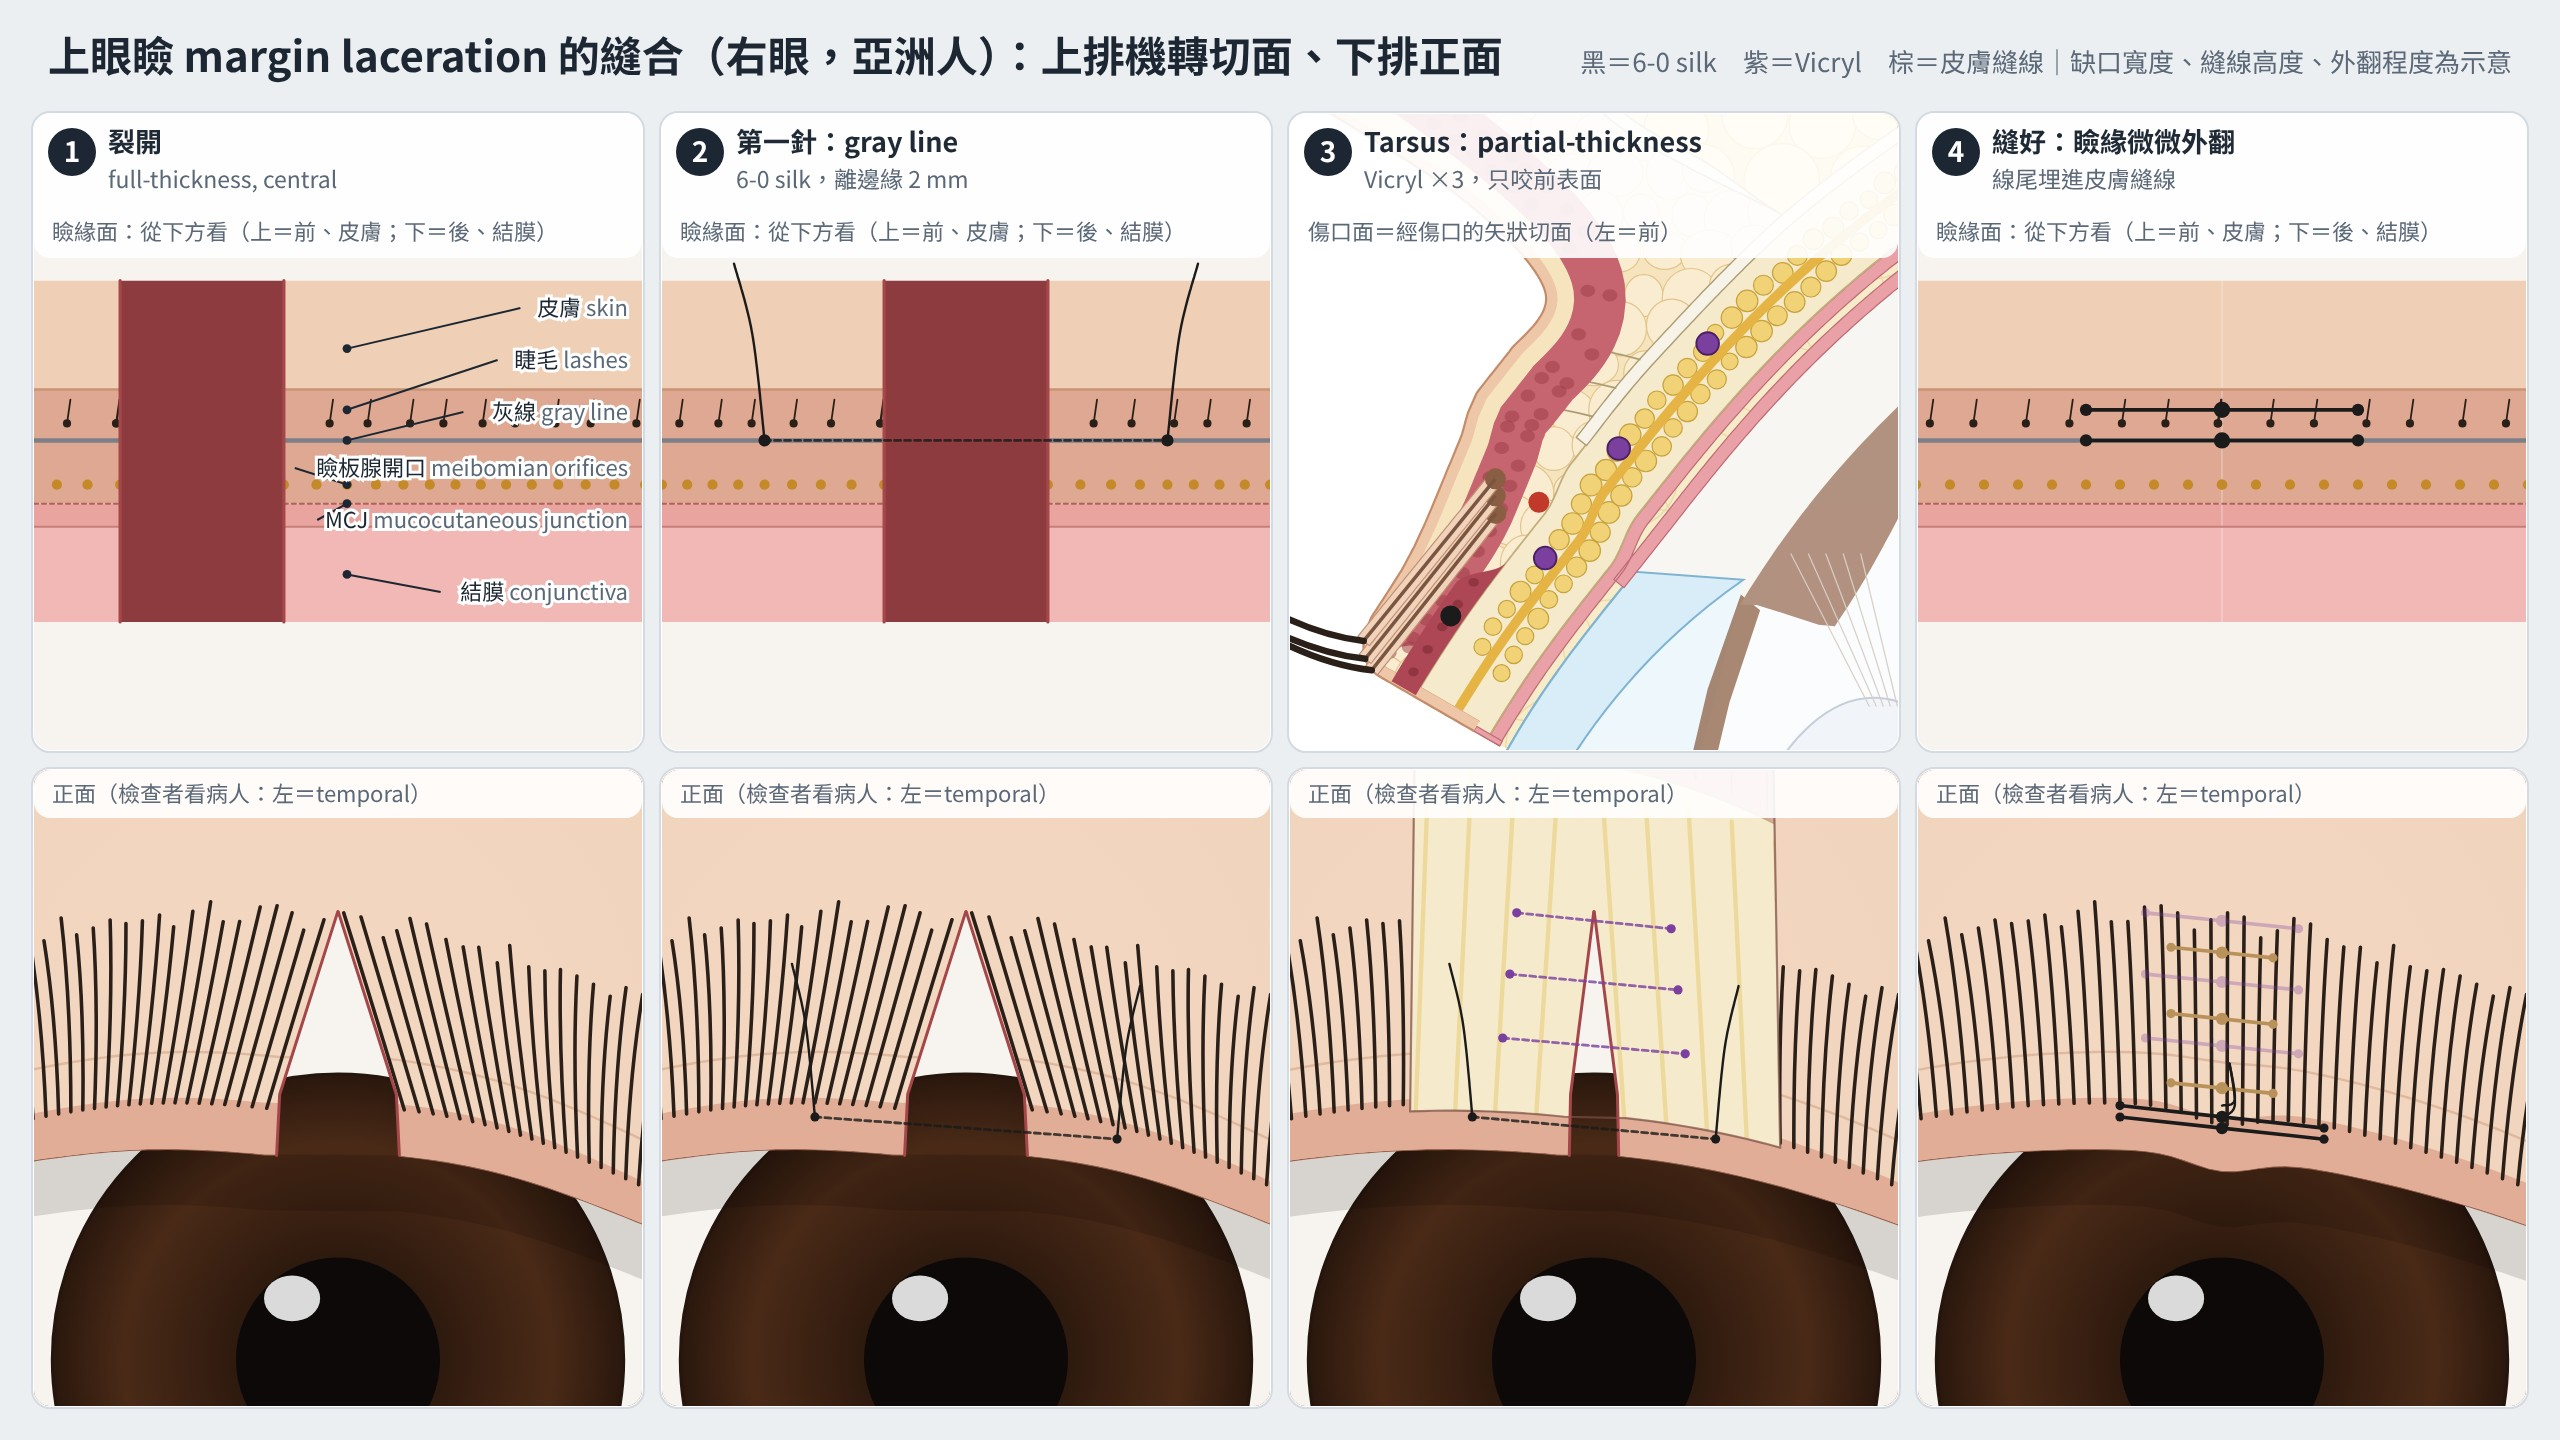
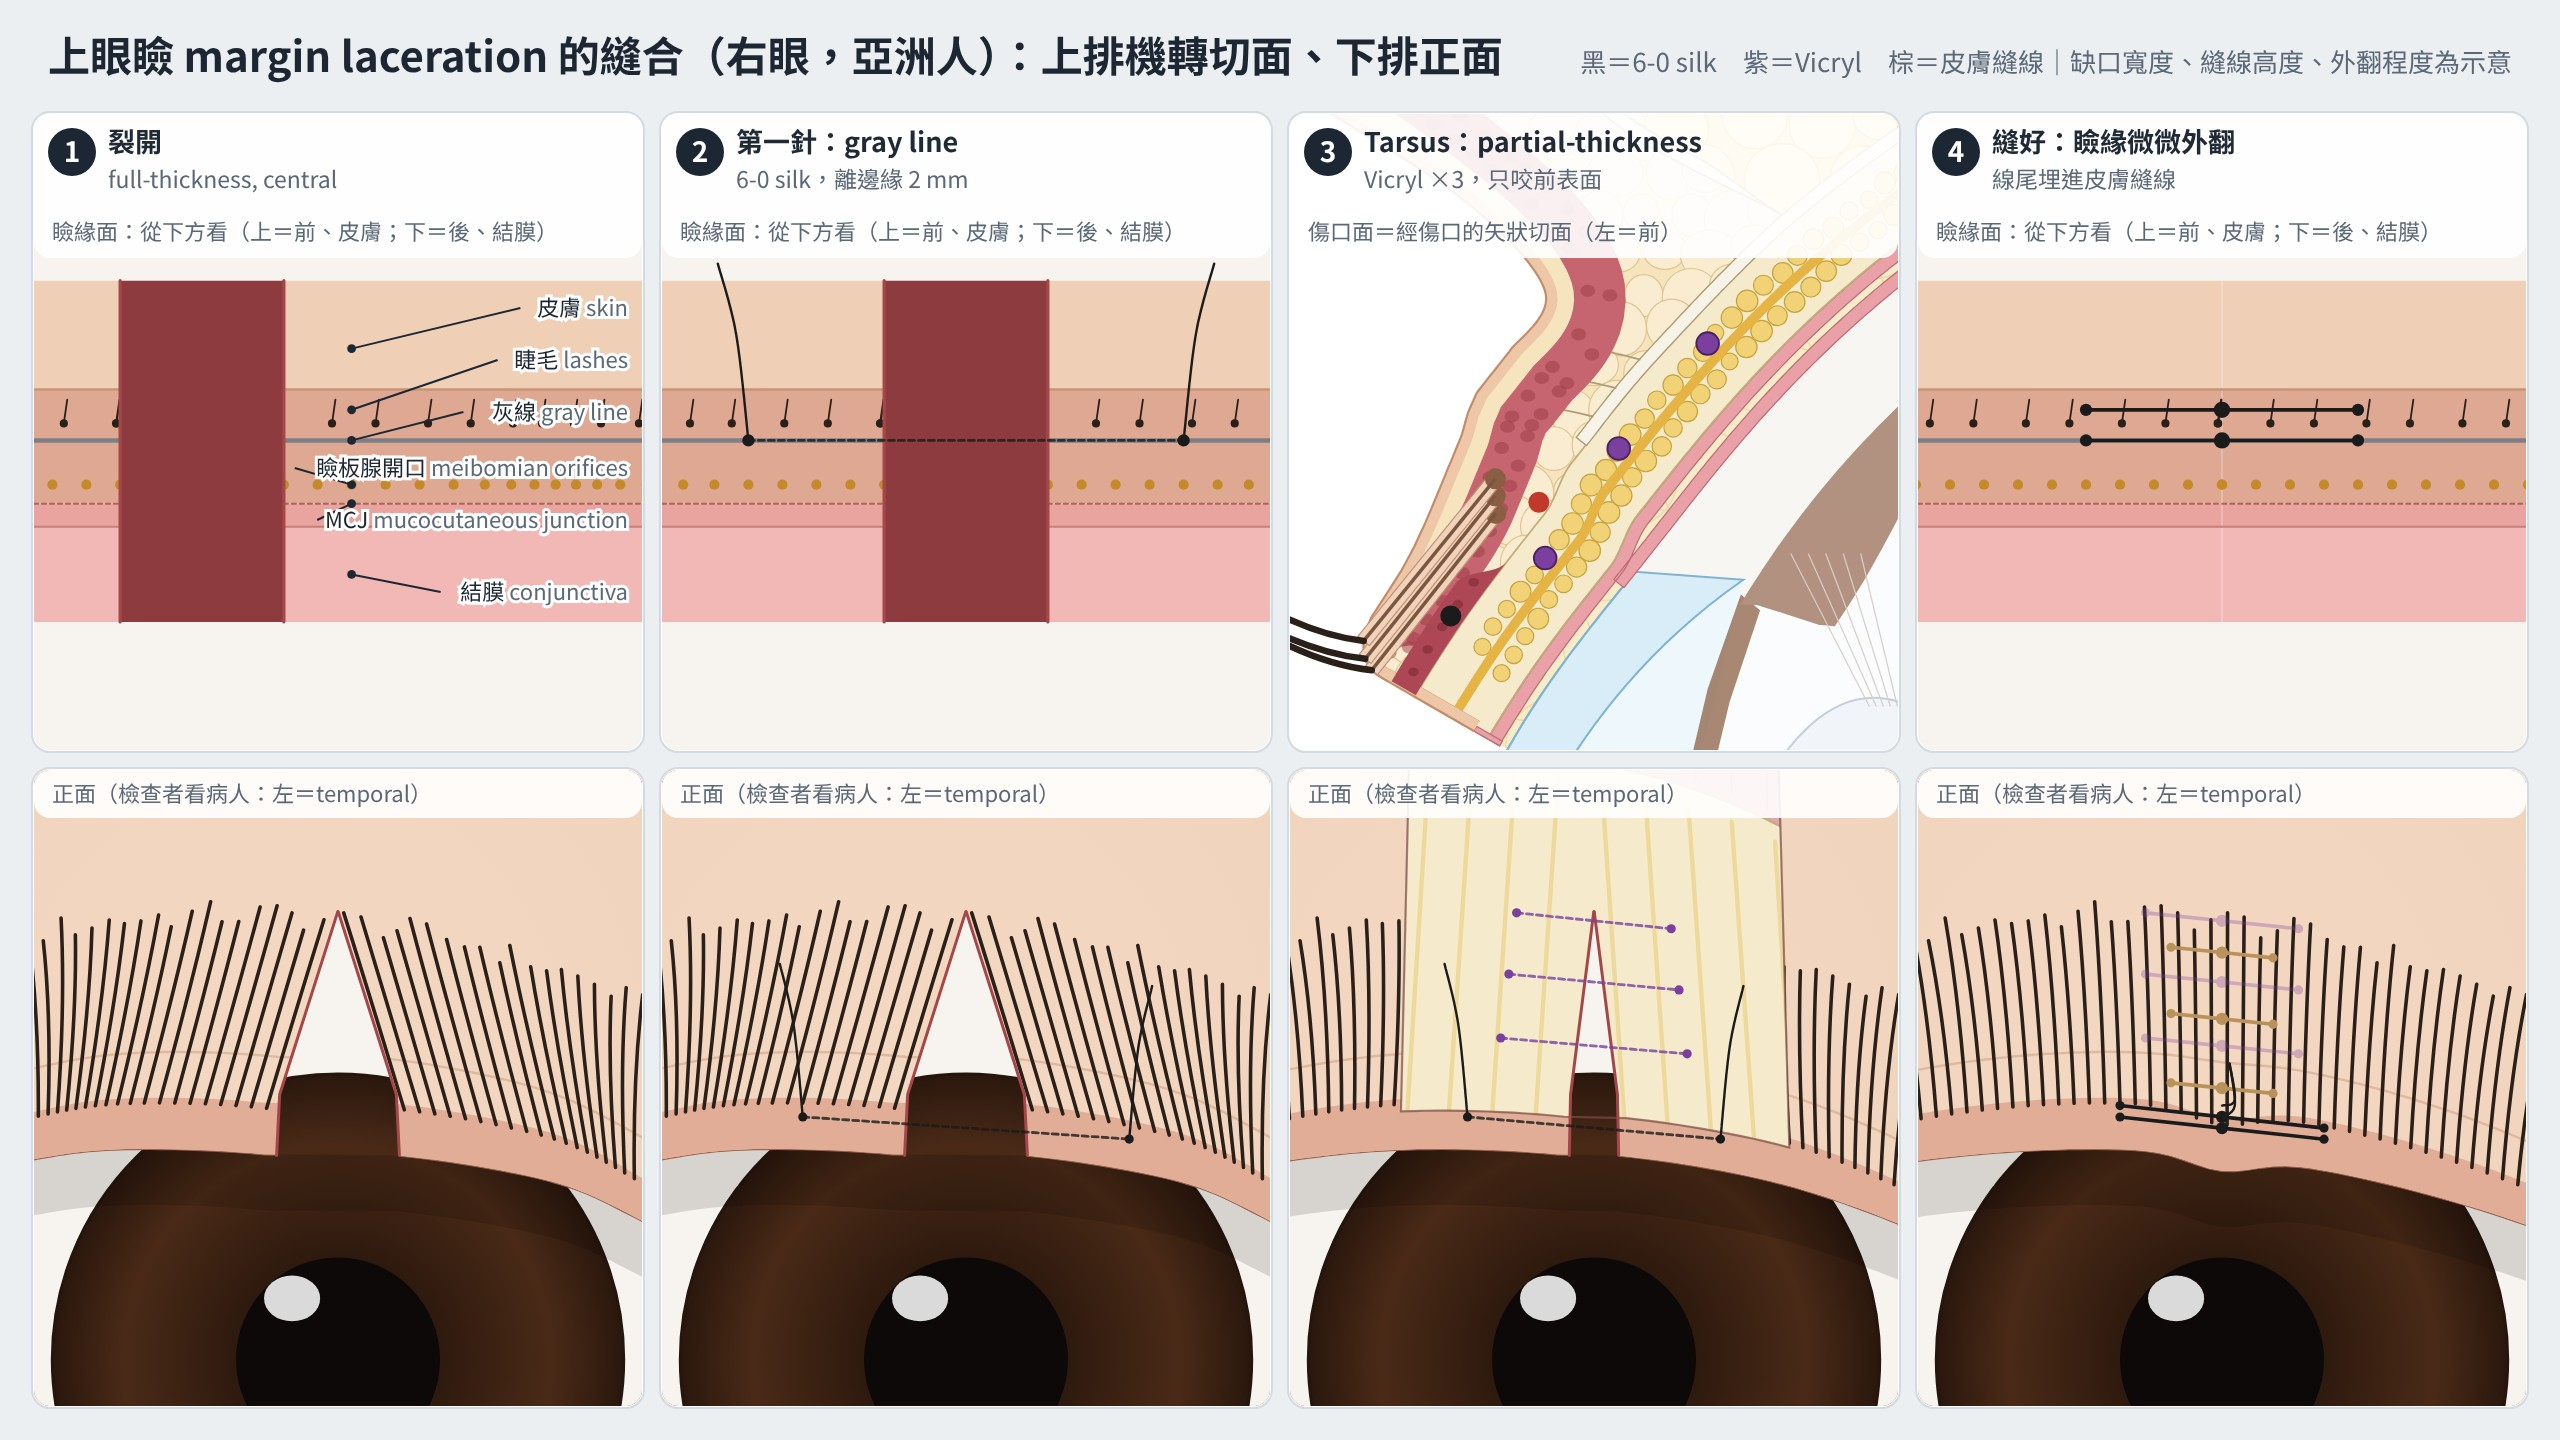
眼瞼裂傷：傷口兩側 2.5 mm 內整塊平移
原本位移從傷口邊緣就開始遞減，傷口打開時畫面上 gray line 縫線離邊緣只有約 1.76 mm，和旁白的 2 mm（EyeWiki）不符。改成兩側 2.5 mm 內整塊平移、7 mm 遞減為 0，打開時也是 2 mm；沒有裂傷的畫面逐字不變，模型檢查全部通過、12 種故意改錯全部抓到，樣本參考圖已自檢更新。

diff --git a/videos/models/eyelid/coronal.js b/videos/models/eyelid/coronal.js
@@ -77,7 +77,7 @@ const CORONAL = (() => {
   // the apex lacS mm up the tarsus (sagittal distance from the margin, projected with LID.UF so both views agree) and the shift fades over
   // LAC_FADE mm sideways (schematic). lacPout (mm, + = everted / pouting margin, − = notch) and lacStep (mm, nasal side raised = misaligned
   // margin) act on the margin around the wound. Returns the warp (tissue point → drawn point) or null.
-  const LAC_FADE = 7;
+  const LAC_FADE = 7, LAC_RIGID = 2.5;   // the lid within 2.5 mm of the wound moves as a block (sutures 2 mm from the edge keep their distance), then the shift fades by 7 mm
   function lacWarp(st) {
     const open = st.lac || 0, pout = st.lacPout || 0, step = st.lacStep || 0;
     if (!open && !pout && !step) return null;
@@ -86,7 +86,7 @@ const CORONAL = (() => {
     const dAnt = LID.UF.at(0, LID.U_SKIN)[1] - LID.UF.at(0, 0)[1], pr = x => prof(x, LC[0], MC[0], 0.6), dLa = dL + dAnt * pr(x0);
     const fA = a => a <= 0 ? (a >= -3 ? 1 : Math.max(0, a + 4)) : Math.max(0, 1 - a / dLa);    // a = height above the lash line
     const mA = a => a <= 0 ? (a >= -3 ? 1 : Math.max(0, a + 4)) : Math.max(0, 1 - a / 1.2);    // pout / step: the margin edge only
-    return ([x, y]) => { const xc = Math.max(LC[0], Math.min(MC[0], x)), d = x - x0, side = d >= 0 ? 1 : -1, a = Uy(xc) + dAnt * pr(xc) - y, h = 1 - ss(0, LAC_FADE, Math.abs(d));
+    return ([x, y]) => { const xc = Math.max(LC[0], Math.min(MC[0], x)), d = x - x0, side = d >= 0 ? 1 : -1, a = Uy(xc) + dAnt * pr(xc) - y, h = 1 - ss(LAC_RIGID, LAC_FADE, Math.abs(d));
       return [x + side * G / 2 * fA(a) * h, y + (pout * Math.exp(-((d / 0.9) ** 2)) - (side > 0 ? step : 0) * h) * mA(a)]; };
   }
   function drawBody(opt = {}) {
@@ -413,6 +413,6 @@ const CORONAL = (() => {
   }
   // vertical strip windows across the upper lid, from the rim down to just above the lash line
   function strip(x0, x1, depth, top = -21.4) { const p = []; for (let x = x0; x <= x1 + 1e-9; x += 0.25) p.push([x, top]); for (let x = x1; x >= x0 - 1e-9; x -= 0.25) p.push([x, Uy(Math.max(LC[0], Math.min(MC[0], x))) - 0.75]); return { poly: p, depth }; }
-  return { draw, drawEverted, EV_TILT, strip, Uy, Ly, LC, MC, NOTCH_X, NOTCH_W, browLoY, U4, LIMB, lacWarp, LAC_FADE };
+  return { draw, drawEverted, EV_TILT, strip, Uy, Ly, LC, MC, NOTCH_X, NOTCH_W, browLoY, U4, LIMB, lacWarp, LAC_FADE, LAC_RIGID };
 })();
 if (typeof module !== 'undefined') module.exports = CORONAL;

diff --git a/videos/models/eyelid/laceration.js b/videos/models/eyelid/laceration.js
@@ -27,7 +27,7 @@ const LAC = (() => {
   // the coronal warp at the margin height, and the AP misalignment of the nasal side (lacAP mm, + = nasal side more anterior)
   function marginMap(st) {
     const W = CORONAL.lacWarp(st), x0 = lacX(st), ap = st.lacAP || 0;
-    return ([x, y]) => { const xw = W ? W([x, CORONAL.Uy(x)])[0] : x, side = x - x0 >= 0 ? 1 : -1, h = 1 - LID.ss(0, CORONAL.LAC_FADE, Math.abs(x - x0));
+    return ([x, y]) => { const xw = W ? W([x, CORONAL.Uy(x)])[0] : x, side = x - x0 >= 0 ? 1 : -1, h = 1 - LID.ss(CORONAL.LAC_RIGID, CORONAL.LAC_FADE, Math.abs(x - x0));
       return [xw, y - (side > 0 ? ap * h : 0)]; };
   }
   const dot = (p, r, fill, stroke = 'none') => `<circle cx="${p[0].toFixed(3)}" cy="${p[1].toFixed(3)}" r="${r}" fill="${fill}" stroke="${stroke}" stroke-width="0.9" ${NS}/>`;

diff --git a/videos/models/eyelid/CARD.md b/videos/models/eyelid/CARD.md
@@ -111,7 +111,7 @@
 - 下眼瞼正面另外有：`lstrips: [[x0, x1, depth], ...]` 逐層開窗的縱條（像 `CORONAL.strip`）；`canthotomy`、`cantholysis`、`strip`（參數 `stripL` 5 mm、`shortMm`，示意）、`stripFix`、`canthopexy`、`lts`（mattress 變三針）、`rimShow`（皮膚下的外側眶緣虛線）。
 - 水平切面（`CANTHUS.draw({ state })`）：`lax` horizontal laxity、`distract` distraction test（0–1，拉開到該眼瞼可拉開的距離）、`canthotomy`、`cantholysis`、`strip`、`stripL`、`shortMm`、`stripFix`、`canthopexy`、`shortMark`。
 - 瞼緣裂傷（正面 `CORONAL.draw` 的 state；瞼緣面、傷口面、正面縫線用 `LAC.margin`／`LAC.sag`／`LAC.cor`，同一個 state）：
-  - `lac`（0–1）傷口分開的程度：瞼緣處分開 `lacGap`（預設 2.4 mm，示意），往上到尖端線性變窄；尖端在 `lacS`（預設 6 mm，沿瞼板從瞼緣量，示意，用 `LID.UF` 投影到正面）；`lacX` 傷口位置（預設 0＝中央）。位移往兩側在 `LAC_FADE` 7 mm 內遞減（示意）。
+  - `lac`（0–1）傷口分開的程度：瞼緣處分開 `lacGap`（預設 2.4 mm，示意），往上到尖端線性變窄；尖端在 `lacS`（預設 6 mm，沿瞼板從瞼緣量，示意，用 `LID.UF` 投影到正面）；`lacX` 傷口位置（預設 0＝中央）。傷口兩側 `LAC_RIGID` 2.5 mm 內整塊平移（離邊緣 2 mm 的縫線在打開時距離不變），之後到 `LAC_FADE` 7 mm 遞減為 0（示意）。
   - `lacPout`（mm）＋＝瞼緣在傷口處外翻、−＝凹口（notch）；`lacStep`（mm）鼻側瞼緣抬高＝上下錯位；`lacAP`（mm，只在瞼緣面）鼻側往前＝gray line 前後錯位。
   - 縫線：`lacGrey`／`lacGreyTie`（gray line 6-0 silk，離傷口邊緣 `GREY_D` 2 mm：EyeWiki）、`lacTar`（tarsal sutures，上眼瞼 3 針、下眼瞼 2 針：EyeWiki；只咬 tarsus 前半部：EyeRounds；高度示意）、`lacLash`／`lacLashTie`（睫毛線 6-0 silk：EyeWiki；距離示意）、`lacSkin`（皮膚縫線，位置示意）、`lacTails`（silk 線尾埋進最下面那針皮膚縫線、朝上：EyeWiki）、`lacVM`／`lacVMTie`（EyeRounds：7-0 Vicryl vertical mattress 在 meibomian 開口，far–far 再 near–near；距離示意）。傷口打開時縫線畫成虛線（在組織裡）；傷口合起來後 tarsal sutures 變淡（在皮膚底下），除非用 `lacWin` 開窗。
   - 參數名一律 `lac` 開頭：曾經用 `tarSut`，和 levator resection 的瞼板固定縫線同名，正面圖多畫出三針 levator 縫線（見已知的坑）。
